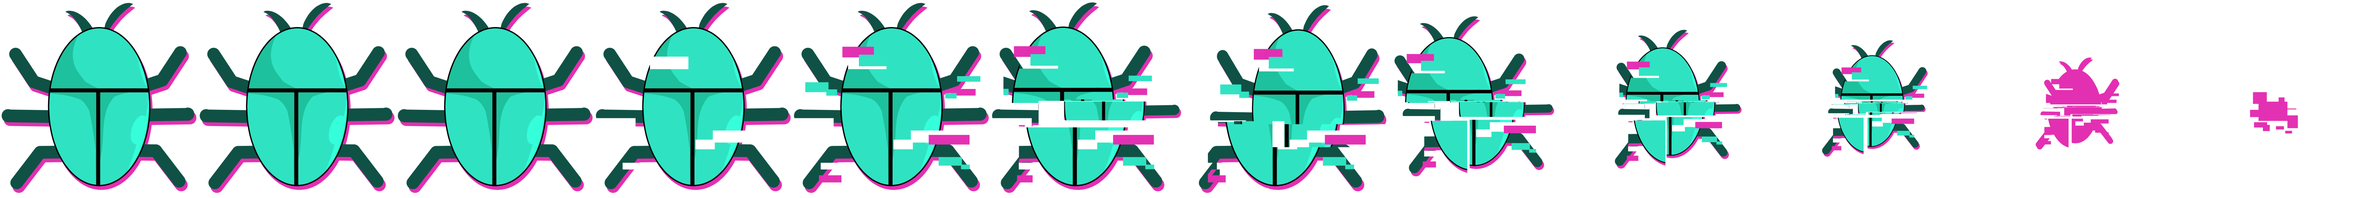
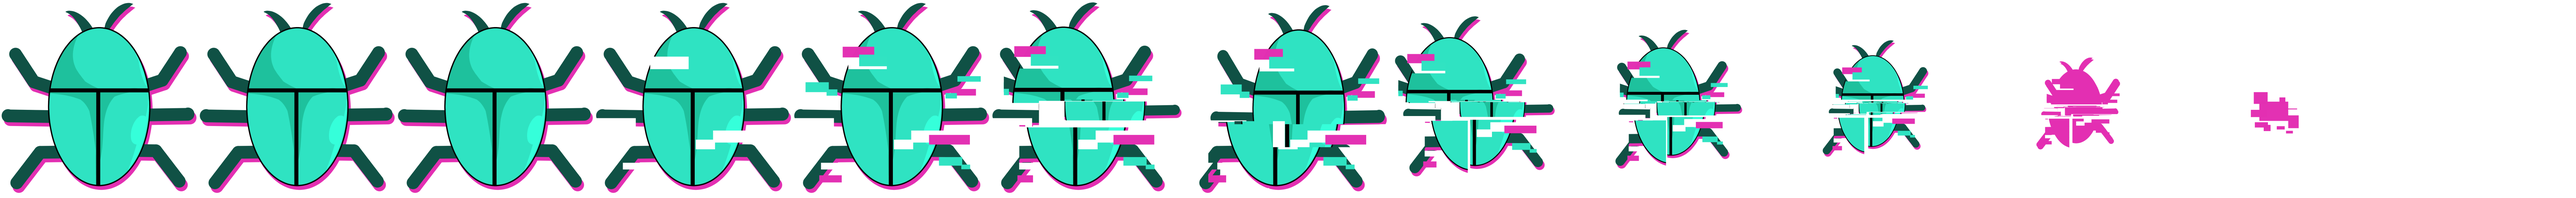
Added some new image assets, and fixed the bug so that audio plays on web.

diff --git a/lib/main.dart b/lib/main.dart
@@ -19,6 +19,7 @@ import 'package:flutter/services.dart';
 import 'Bug.dart';
 import 'Coin.dart';
 import 'Runner.dart';
+import 'package:flutter/foundation.dart' show kIsWeb;
 
 const COLOR = const Color(0xFFDDC0A3);
 
@@ -47,6 +48,7 @@ class MyGame extends BaseGame with PanDetector, TapDetector, KeyboardEvents {
   late WireHolder wireHolder;
   late BugHolder bugHolder;
   Random random = Random();
+  bool playingMusic = false;
 
   late Runner runner;
   late GameState gameState;
@@ -77,9 +79,16 @@ class MyGame extends BaseGame with PanDetector, TapDetector, KeyboardEvents {
     runner = Runner();
     await runner.load(loadSpriteAnimation);
 
-    FlameAudio.bgm.play('Infinite_Spankage_M.mp3');
+    if (!kIsWeb) {
+      playMusic();
+    }
     loaded = true;
     setUp();
+  }
+
+  void playMusic() {
+    FlameAudio.bgm.play('Infinite_Spankage_M.mp3');
+    playingMusic = true;
   }
 
   void fillScreen() {
@@ -236,6 +245,9 @@ class MyGame extends BaseGame with PanDetector, TapDetector, KeyboardEvents {
 
   @override
   void onPanEnd(DragEndInfo info) {
+    if (!playingMusic && kIsWeb) {
+      playMusic();
+    }
     double xDelta = xDeltas.isEmpty
         ? 0
         : xDeltas.reduce((value, element) => value + element);
@@ -259,6 +271,9 @@ class MyGame extends BaseGame with PanDetector, TapDetector, KeyboardEvents {
 
   @override
   void onTap() {
+    if (!playingMusic && kIsWeb) {
+      playMusic();
+    }
     runner.control("center");
   }
 
@@ -266,6 +281,9 @@ class MyGame extends BaseGame with PanDetector, TapDetector, KeyboardEvents {
   var keyboardKey;
   @override
   void onKeyEvent(RawKeyEvent event) {
+    if (!playingMusic && kIsWeb) {
+      playMusic();
+    }
     if (event is RawKeyUpEvent) {
       keyboardKey = null;
       switch (event.data.keyLabel) {

diff --git a/lib/Bug.dart b/lib/Bug.dart
@@ -20,7 +20,7 @@ class Bug extends MovingObject {
     SpriteAnimation breaking = SpriteAnimation.fromFrameData(
       breakingImage,
       SpriteAnimationData.sequenced(
-        amount: 12,
+        amount: 13,
         stepTime: 0.01,
         textureSize: Vector2(512, 512),
         loop: false,
